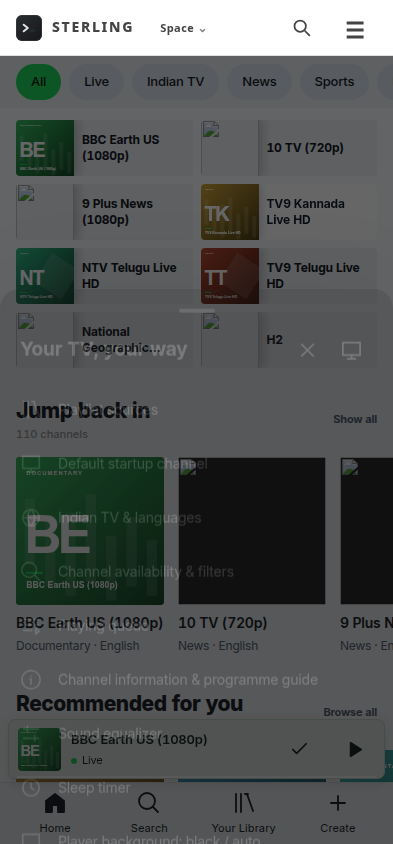
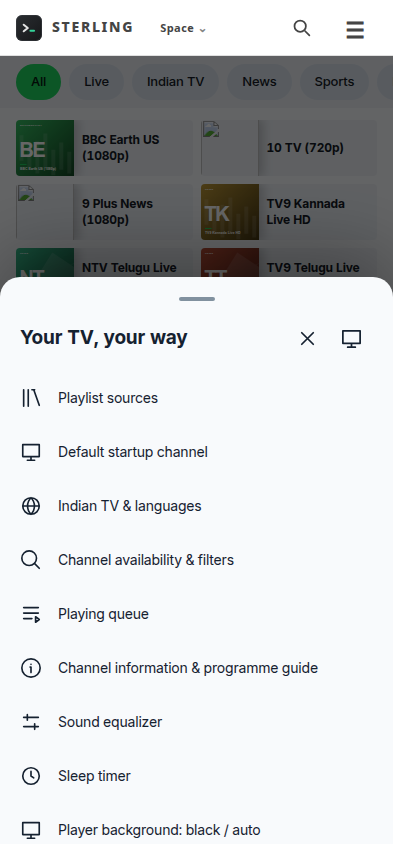
test(media): verify published Light sheets

diff --git a/backend/tests/services/navigator/test_chain_sampler.py b/backend/tests/services/navigator/test_chain_sampler.py
@@ -282,6 +282,7 @@ class TestChainSamplerCoordinator:
     @pytest.mark.asyncio
     async def test_error_triggers_backoff_not_a_crash(self):
         attempts = {"n": 0}
+        recovered = asyncio.Event()
 
         async def quote_fetcher(symbols):
             attempts["n"] += 1
@@ -297,6 +298,7 @@ class TestChainSamplerCoordinator:
 
         async def on_sample(key, slice_, result, now_ms):
             sampled.append(result)
+            recovered.set()
 
         coordinator = ChainSamplerCoordinator(quote_fetcher=quote_fetcher, instrument_index=FakeIndex(), on_sample=on_sample)
         config = SimpleNamespace(mode="dynamic", dynamic_strike_radius=2, broad_strike_radius=5, strike_step_override=None, max_spread_pct=0.08, max_quote_age_seconds=20, min_chain_completeness=0.8, flow_sample_seconds=60)
@@ -305,6 +307,11 @@ class TestChainSamplerCoordinator:
             return 24500.0
 
         coordinator.ensure_started(account_scope="acct1", underlying="NIFTY", exchange="NFO", expiry="2026-08-06", spot_provider=spot_provider, config=config)
-        await asyncio.sleep(0.6)  # long enough for the fast (non-rate-limited attempt#... ) retry to land
-        await coordinator.stop_all()
+        # Wait for recovery itself: a fixed 0.6s sleep races the 0.5s retry
+        # when the event loop is busy running the complete acceptance suite.
+        try:
+            await asyncio.wait_for(recovered.wait(), timeout=5)
+        finally:
+            await coordinator.stop_all()
         assert attempts["n"] >= 2
+        assert sampled

diff --git a/docs/evidence/2026-10-28/media-refinement/README.md b/docs/evidence/2026-10-28/media-refinement/README.md
@@ -1,9 +1,9 @@
 # Media refinement execution evidence — 28 October 2026
 
-The application changes are committed at `80deaff447cc01d479ad5bcdbc0d1aab9cfe7d56`.
+The application changes are committed through `8e16afec4a53ec65f71c4e85602f1c08d07dadec`.
 Local immutable publication on port 5180 and the currently verified public
-origin served this revision. The backend was restarted on the Python sources at
-`182f622c2`; subsequent application changes through `80deaff44` are frontend/media
+origin [served this revision](live-release.json). The backend was restarted on the Python sources at
+`182f622c2`; subsequent application changes through `8e16afec4` are frontend/media
 changes. Test and audit harness corrections recorded alongside this bundle do not
 alter application behavior. Earlier acceptance evidence remains historical.
 
@@ -17,10 +17,10 @@ deferred to the [follow-up TODO](../../../qa/2026-10-28/FOLLOW_UP_TODO.md).
 |---|---|
 | Frontend suite | [2,517 passing tests in 280 files](frontend-tests.log). Final complete run used two workers after an earlier high-contention five-second test timeout. |
 | Build | [TypeScript and Vite passed](build.log). The publication manager also built and served the immutable application revision. |
-| Media browser | [40 passing browser journeys](media-browser-tests.log): playback state, contrast, corners, sheets, first-load Home, sizing and scroll behavior. This run preceded the final TV native-dialog migration; focused template tests and actual-host handoffs below cover that migration. |
+| Media browser | [40 passing browser journeys](media-browser-tests.log): playback state, contrast, corners, sheets, first-load Home, sizing and scroll behavior. The final rerun includes the native TV dialogs and explicit Light palette for the TV tools sheet. |
 | Focused templates/dialogs | [45 passing tests](dialog-tests.log), including generated-export consistency and native TV settings dialogs. |
 | Actual host settings | [Four passing phone/desktop radio/TV handoffs](host-settings-handoffs.json) on the published revision: account menu closes, startup/source fields accept text, tools open in the foreground. External streams and private settings writes were blocked. |
-| Workspace authorization | [28 passing focused tests](workspace-policy-tests.log). The [initial full backend run](backend-initial-run.log) had 12,595 passes, 30 skips and one stale test expecting a pending request for already-granted radio; the corrected assertion also checks no redundant request row is created. No authorization behavior was changed to satisfy the test. A fresh full run is still in progress. |
+| Workspace authorization | [28 passing focused tests](workspace-policy-tests.log). The [initial full backend run](backend-initial-run.log) had 12,595 passes, 30 skips and one stale test expecting a pending request for already-granted radio; the corrected assertion also checks no redundant request row is created. No authorization behavior was changed to satisfy the test. A fresh full run is still in progress. It exposed a second timing-sensitive sampler test: a fixed 0.6-second sleep raced a 0.5-second backoff under load. The test now waits for recovery with bounded cleanup; [all 25 sampler tests pass](chain-sampler-tests.log). Production retry logic is unchanged. |
 | Gateway containment | [Six passing tests](gateway-tests.log). |
 | Offline admission/recovery | [42 passing tests](offline-admission-tests.log); fake broker and isolated processes, not actual trading recovery certification. |
 | Page/overlay sweep | [742 captures at seven widths](visual-audit.json): 320, 360, 393, 412, 600, 844 and 1440, both themes, member/admin pages and overlays. No document overflow or uncaught browser errors. Desktop was rerun after correcting the audit's obsolete search-button locator. This is coverage and geometry evidence, not a claim that every captured pixel is approved. |

diff --git a/docs/qa/2026-10-28/END_TO_END_ACCEPTANCE_REGISTER.md b/docs/qa/2026-10-28/END_TO_END_ACCEPTANCE_REGISTER.md
@@ -2,7 +2,7 @@
 
 ## Media refinement — later executed update, 28 October 2026
 
-Application revision: `80deaff447cc01d479ad5bcdbc0d1aab9cfe7d56`. The desktop
+Application revision: `8e16afec4a53ec65f71c4e85602f1c08d07dadec`. The desktop
 header/immersive sizing and narrow recommendation-rail changes were withdrawn as
 requested. Shared player artwork/metadata spacing, centered native play/pause,
 theme and corner clipping, foreground modal sheets, radio tools, desktop search,
@@ -19,8 +19,11 @@ three served entry points. Read-only broker profile verification for AA0595
 returned HTTP 200 at 17:29 UTC.
 
 The full backend rerun is in progress after correcting one stale test assertion
-that expected a pending request for already-granted radio. No runtime permission
-behavior was weakened. The prior failed receipt remains in local execution logs.
+that expected a pending request for already-granted radio. It has exposed a
+timing-sensitive sampler test: the fixed sleep now waits for actual recovery,
+and all 25 focused sampler tests pass. No runtime permissions or retry behavior
+were weakened. Prior failed receipts are retained; no complete backend PASS is
+claimed while the rerun is unfinished.
 
 **Physical-device acceptance remains open.** The operator reports playback at
 roughly 2–3 seconds but says the latest layout still looks off; new screenshots

diff --git a/docs/qa/2026-10-28/FOLLOW_UP_TODO.md b/docs/qa/2026-10-28/FOLLOW_UP_TODO.md
@@ -29,5 +29,15 @@
   play/pause centering, artwork/title spacing and both themes after screenshot
   corrections. Browser emulation cannot certify the physical video compositor.
 
+## Automated verification still running
+
+- [ ] Collect `.runtime/acceptance-20261028/refinement-pytest-release.log` when the
+  full backend process finishes. Its sampler retry test failed before the test
+  was changed from a fixed sleep to an event-based recovery wait. The corrected
+  sampler module passes all 25 tests. Inspect the full traceback and any further
+  failures, rerun the corrected cases, and retain honest final receipts before
+  marking the complete backend suite passed. This item was not deferred by the
+  operator; it remains active verification work.
+
 Automated browser/API evidence is recorded separately in the acceptance register.
 These TODOs are not a scheduled reminder or an assertion of complete certification.
